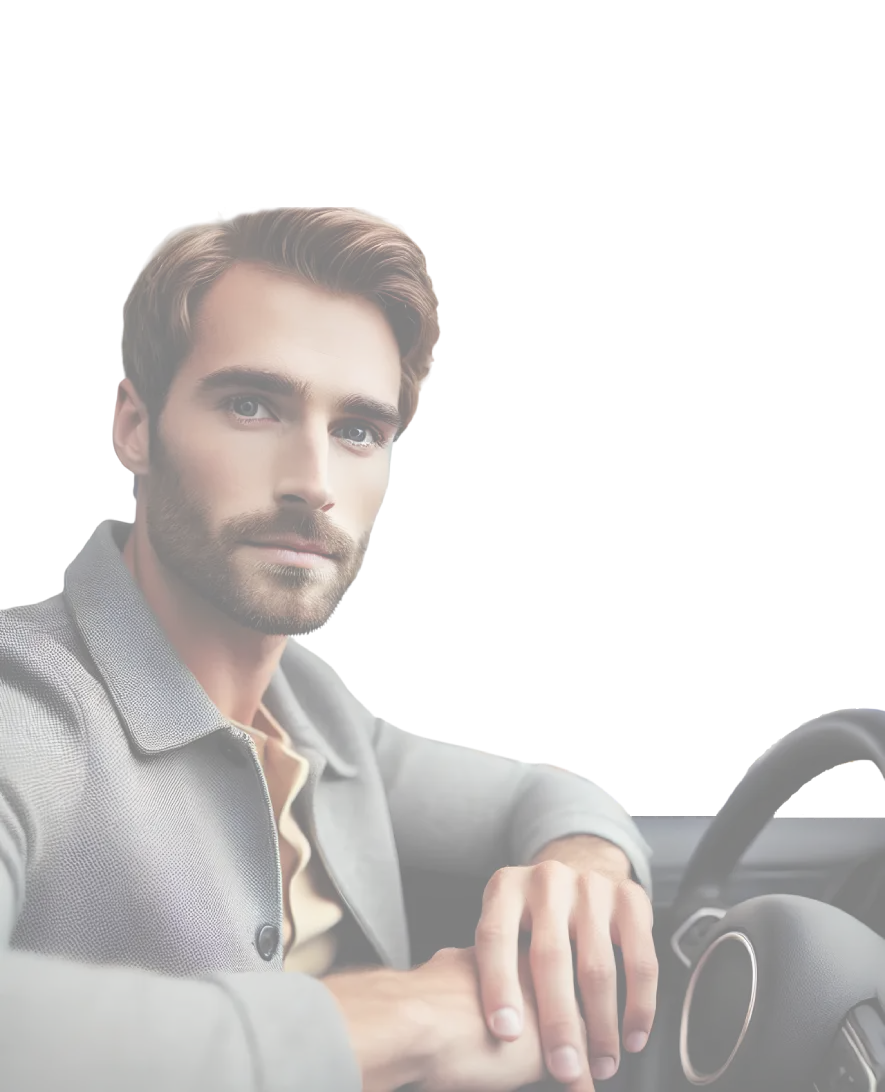
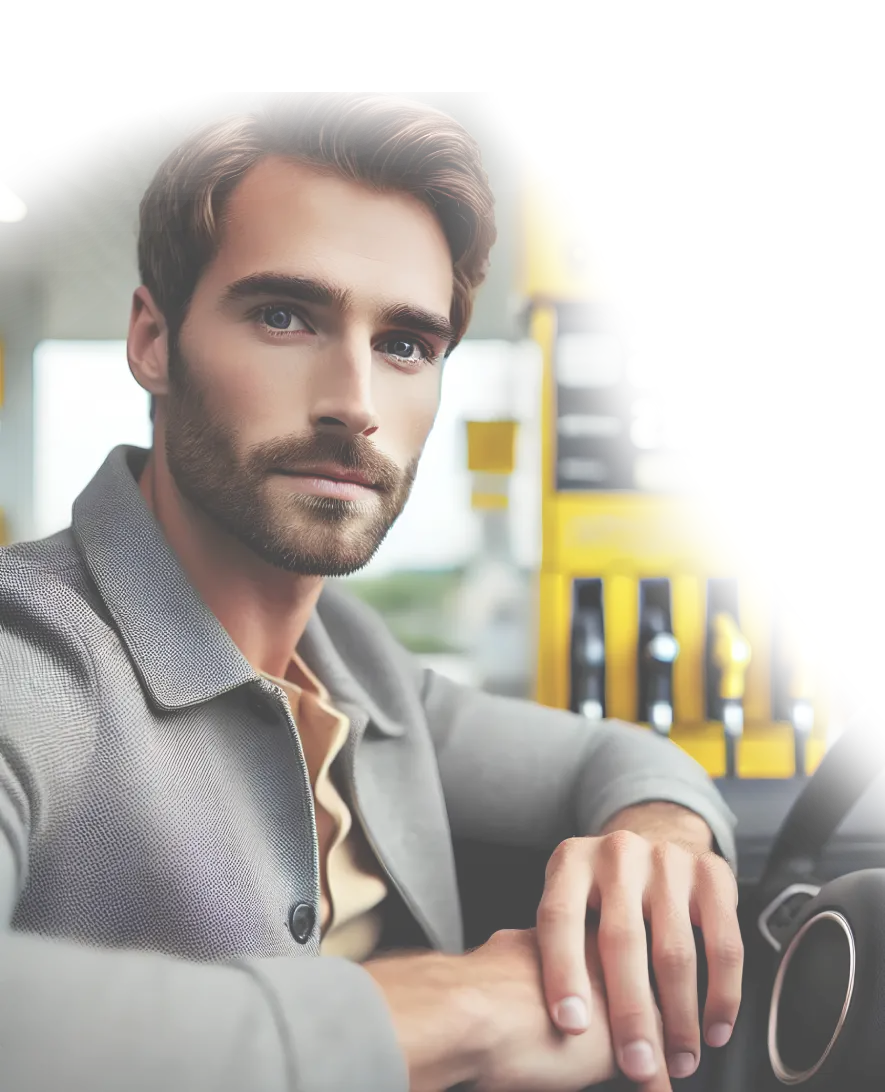
stelle page

diff --git a/templates/app/pages/stelle.html b/templates/app/pages/stelle.html
@@ -1,0 +1,114 @@
+{% extends "app/pages/base.html" %}
+
+{% block title %}main{% endblock %}
+
+{% block content %}
+
+<div class="content-block content-block__container content-block--taxi-3">
+  <div class="pt80 pb40">
+  </div>
+  <div class="content-block__body pb80">
+
+    <div class="content-block__title">
+      <h1 class="title-1">Werde Fahrlehrer bei „<span>SVS-Müller</span>“</h1>
+      <h2 class="title-3">Starte in eine neue Karriere – in einem Team, das Menschen wirklich schätzt!</h2>
+      <div class="title-sub">Suchen Sie einen krisensicheren Beruf mit gesellschaftlicher Relevanz?</div>
+    </div>
+    <div class="content-block__text">
+      <p>Du liebst Autos, gehst selbstbewusst mit Verantwortung um und hast Freude im Umgang mit Menschen?</p>
+      <p>Dann bist du bei uns genau richtig! SVS-Müller sucht motivierte Fahrlehrer (m/w/d), die in einem respektvollen und kollegialen Umfeld arbeiten möchten.</p>
+    </div>
+
+    <p>Das erwartet dich bei uns:</p>
+
+    <div class="content-block__list content-block__list--two">
+      <ul>
+        <li>
+          <div class="content-block__list-icon">
+            🕒 
+          </div>
+
+          <div class="content-block__list-title">Flexible Planung deiner Fahrstunden – du bestimmst den Rhythmus </div>
+        </li>
+
+        <li>
+          <div class="content-block__list-icon">
+            🚘
+          </div>
+
+          <div class="content-block__list-title">Start und Ende der Fahrstunden direkt an unseren Standorten</div>
+        </li>
+
+        <li>
+          <div class="content-block__list-icon">
+            💡
+          </div>
+
+          <div class="content-block__list-title"> Raum für deine Ideen und aktive Mitgestaltung</div>
+        </li>
+
+        <li>
+          <div class="content-block__list-icon">
+            🎉
+          </div>
+
+          <div class="content-block__list-title"> Gemeinsame Aktivitäten und echtes Teamgefühl</div>
+        </li>
+        
+      </ul>
+    </div>
+
+    <p>Was du mitbringen solltest:</p>
+
+    <div class="content-block__list content-block__list--two">
+      <ul>
+        <li>
+          <div class="content-block__list-icon">
+            <svg style="width: 30px; height: 30px;" class="icon-ok">
+              <use xlink:href="/static/img/sprite.svg#ok"></use>
+            </svg>
+          </div>
+
+          <div class="content-block__list-title">Gültige Fahrlehrererlaubnis für Klasse B/BE </div>
+        </li>
+        <li>
+          <div class="content-block__list-icon">
+            <svg style="width: 30px; height: 30px;" class="icon-ok">
+              <use xlink:href="/static/img/sprite.svg#ok"></use>
+            </svg>
+          </div>
+
+          <div class="content-block__list-title">Leidenschaft für das Lehren und Freude daran, Menschen sicher zum Führerschein zu begleiten</div>
+        </li>
+        <li>
+          <div class="content-block__list-icon">
+            <svg style="width: 30px; height: 30px;" class="icon-ok">
+              <use xlink:href="/static/img/sprite.svg#ok"></use>
+            </svg>
+          </div>
+
+          <div class="content-block__list-title">Ein positives Auftreten und Offenheit für neue Impulse </div>
+        </li>
+      </ul>
+    </div>
+
+    <div class="content-block__btn">
+      <p>SVS-Müller – ein Arbeitsplatz, an dem du dich wohlfühlst!  </p>
+
+      <button 
+        type="button" 
+        class="btn btn--big btn--red" 
+        data-js-modal-target="modal-call" 
+        aria-label="Werde Fahrlehrer bei SVS-Müller"
+        data-js-desc="Hinterlassen Sie eine Anfrage, wir werden Sie innerhalb von 15 Minuten zurückrufen und detailliert über die Möglichkeiten sprechen, ein Fahrlehrer zu werden." 
+        data-js-title="Werde Fahrlehrer bei SVS-Müller">
+          Jetzt bewerben
+      </button>
+    </div>
+
+  </div>
+</div>
+
+{% include "app/includes/reviews_section.html" %}
+
+{% endblock %}

diff --git a/static/css/main.css b/static/css/main.css
@@ -5128,17 +5128,17 @@ h6 span {
   }
 }
 .content-block--taxi-3 {
-
+  background: var(--primary) url("../img/decor/taxi-3.webp") bottom left/cover no-repeat;
 }
 @media (max-width: 1440px) {
   .content-block--taxi-3 {
-
+    background: var(--primary) url("../img/decor/taxi-3-60.webp") bottom left/cover no-repeat;
   }
 }
 @media (max-width: 1080px) {
   .content-block--taxi-3 {
     background: var(--primary);
-
+    background: var(--primary) url("../img/decor/taxi-3-60-s.webp") top center/cover no-repeat;
   }
 }
 .content-block--taxi-4 {

diff --git a/templates/app/pages/ausbildung.html b/templates/app/pages/ausbildung.html
@@ -64,7 +64,7 @@
         type="button" 
         class="btn btn--big btn--red" 
         data-js-modal-target="modal-call" 
-        aria-label="Восстановить навыки вождения" 
+        aria-label="Ausbildung zum Fahrlehrer" 
         data-js-desc="Hinterlassen Sie eine Anfrage, wir werden Sie innerhalb von 15 Minuten zurückrufen und im Detail über die Möglichkeiten einer beruflichen Ausbildung in unserer Fahrschule informieren." 
         data-js-title="Ausbildung zum Fahrlehrer">
           Jetzt bewerben

diff --git a/fahrschule_muller/views.py b/fahrschule_muller/views.py
@@ -70,7 +70,7 @@ def ausbildung(request):
 
 
 def stelle(request):
-    return render(request, 'app/pages/datenschutz.html')
+    return render(request, 'app/pages/stelle.html')
 
 
 def products(request):
